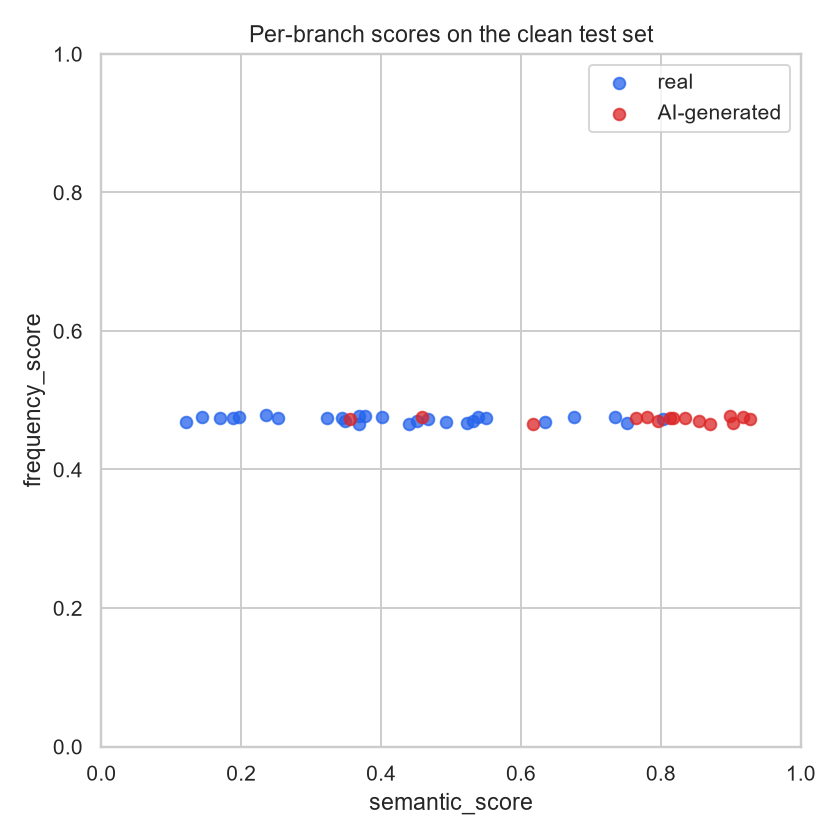
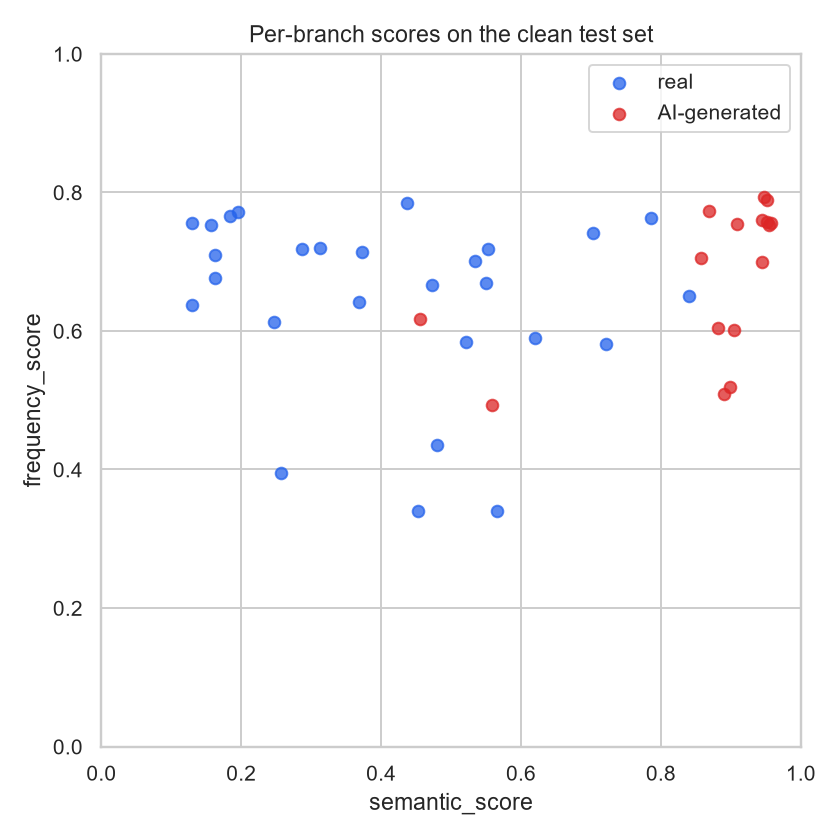
Update V5

diff --git a/outputs/error_analysis.md b/outputs/error_analysis.md
@@ -1,24 +1,24 @@
 # Error analysis
 
 Examples below are **pulled from the current test split**, not invented.
-Clean test size: 42. False positives (real, pred>=0.5): 6. False negatives (AI, pred<0.5): 2.
+Clean test size: 43. False positives (real, pred>=0.5): 5. False negatives (AI, pred<0.5): 2.
 
 ## False positives (authentic images scored as AIGC)
 
-- `train images\filtered_edited9.png`  pred=0.787  semantic=0.751  frequency=0.468  tier=likely_ai_generated
+- `train images\filtered_edited7-.png`  pred=0.859  semantic=0.840  frequency=0.651  tier=likely_ai_generated
   The fused score indicates AI generation; driven mainly by semantic cues.
-- `train images\real-blur7.jpeg`  pred=0.761  semantic=0.803  frequency=0.473  tier=likely_ai_generated
-  The fused score indicates AI generation; driven mainly by semantic cues.
-- `train images\filtered_edited10-.png`  pred=0.661  semantic=0.634  frequency=0.469  tier=filters_or_edited
+- `train images\real053.jpeg`  pred=0.781  semantic=0.785  frequency=0.763  tier=likely_ai_generated
+  The fused score indicates AI generation; both branches agree.
+- `train images\edited-filtered4.jpeg`  pred=0.615  semantic=0.722  frequency=0.582  tier=filters_or_edited
   The fused score sits between a clean camera original and full AIGC; treat as a filtered or edited photograph (including partial AI edits).
-- `train images\edited-filtered8.jpeg`  pred=0.605  semantic=0.676  frequency=0.476  tier=filters_or_edited
+- `train images\real057.jpeg`  pred=0.593  semantic=0.703  frequency=0.742  tier=filters_or_edited
   The fused score sits between a clean camera original and full AIGC; treat as a filtered or edited photograph (including partial AI edits).
 
 ## False negatives (AI images scored as real)
 
-- `train images\ai-generated63.jpeg`  pred=0.226  semantic=0.356  frequency=0.473  tier=likely_real
-  The fused score is consistent with a real photograph; semantic and frequency branches do not show a strong AI signature.
-- `train images\ai-generated2.jpeg`  pred=0.404  semantic=0.458  frequency=0.476  tier=filters_or_edited
+- `train images\ai-generated76.png`  pred=0.365  semantic=0.456  frequency=0.618  tier=filters_or_edited
+  The fused score sits between a clean camera original and full AIGC; treat as a filtered or edited photograph (including partial AI edits).
+- `train images\ai-generated4.jpeg`  pred=0.473  semantic=0.558  frequency=0.493  tier=filters_or_edited
   The fused score sits between a clean camera original and full AIGC; treat as a filtered or edited photograph (including partial AI edits).
 
 ## Trade-offs

diff --git a/README.md b/README.md
@@ -132,6 +132,37 @@ Analyze in the website also writes the same JSON to **`outputs/predictions.json`
 
 ---
 
+## Clean vs transformed performance
+
+Hold-out test set (**n = 43**: 27 photographic, 16 AI). Metric is binary **ROC AUC** (AI vs photographic). Each transformed row applies that degradation to the **same** 43 images.
+
+| Condition | What changed | AUC |
+| --- | --- | --- |
+| **Clean** | no extra transform | **0.961** |
+| JPEG q90 / q70 / q50 | mild–medium compression | 0.956 / 0.951 / 0.949 |
+| JPEG q30 | heavy compression | 0.914 |
+| Blur σ=0.5 / 1.0 / 2.0 | soft capture | 0.954 / 0.965 / 0.958 |
+| Resize 0.5× / 0.25× | small pixels / thumbnail | 0.938 / 0.938 |
+| Noise σ=0.02 / 0.05 / 0.10 | sensor grain | 0.951 / 0.924 / **0.859** |
+| Color jitter ±20% | exposure / saturation shift | 0.963 |
+| Center crop 80% | zoom / recomposition | 0.951 |
+| **AUC_robust** | mean of all transformed rows | **0.941** |
+| **Final score** | `0.50 × AUC_clean + 0.50 × AUC_robust` | **0.951** |
+
+Most social-style transforms (JPEG, blur, resize, crop, mild noise) stay close to clean. The largest drop is **heavy Gaussian noise (σ=0.10)**.
+
+![AUC by condition: clean (blue) vs JPEG, blur, resize, noise, color jitter, crop](outputs/charts/robustness_bars.png)
+
+![ROC: clean AUC 0.961 vs pooled transformed images](outputs/charts/roc_overlay.png)
+
+Full numeric table: [`outputs/robustness_table.md`](outputs/robustness_table.md). Reproduce:
+
+```bat
+python evaluate.py
+```
+
+---
+
 ## CLI inference (required JSON output)
 
 The core scoring script is `predict.py`. It takes an **image directory** and writes a **JSON file** with one object per image. Each object includes at least:
@@ -192,13 +223,13 @@ JPEG class-balance check (codec shortcut risk):
 python -m data.balance_check
 ```
 
-Robustness table and charts (after a checkpoint exists):
+To regenerate the clean-vs-transformed table and charts after a new checkpoint:
 
 ```bash
 python evaluate.py
 ```
 
-Writes `outputs/robustness_table.md`, `outputs/error_analysis.md`, and `outputs/charts/`.
+Writes `outputs/robustness_table.md`, `outputs/error_analysis.md`, and `outputs/charts/` (`robustness_bars.png`, `roc_overlay.png`).
 
 ---
 

diff --git a/outputs/robustness_table.md b/outputs/robustness_table.md
@@ -1,7 +1,21 @@
 | Condition | Severity | AUC | N |
 | --- | --- | --- | --- |
-| Clean | - | 0.9235 | 42 |
+| Clean | - | 0.9606 | 43 |
+| JPEG q90 | 90 | 0.9560 | 43 |
+| JPEG q70 | 70 | 0.9514 | 43 |
+| JPEG q50 | 50 | 0.9491 | 43 |
+| JPEG q30 | 30 | 0.9144 | 43 |
+| Blur sigma=0.5 | 0.5 | 0.9537 | 43 |
+| Blur sigma=1.0 | 1.0 | 0.9653 | 43 |
+| Blur sigma=2.0 | 2.0 | 0.9583 | 43 |
+| Resize 0.5x | 0.5 | 0.9375 | 43 |
+| Resize 0.25x | 0.25 | 0.9375 | 43 |
+| Noise sigma=0.02 | 0.02 | 0.9514 | 43 |
+| Noise sigma=0.05 | 0.05 | 0.9236 | 43 |
+| Noise sigma=0.10 | 0.1 | 0.8588 | 43 |
+| Color jitter +/-20% | 0.2 | 0.9630 | 43 |
+| Crop 80% | 0.8 | 0.9514 | 43 |
 
-AUC_clean = 0.9234567901234568
-AUC_robust = None  (mean of transformed conditions)
-Final Score = 0.50 * AUC_clean + 0.50 * AUC_robust = None
+AUC_clean = 0.9606481481481481
+AUC_robust = 0.9408068783068784  (mean of transformed conditions)
+Final Score = 0.50 * AUC_clean + 0.50 * AUC_robust = 0.9507275132275133
